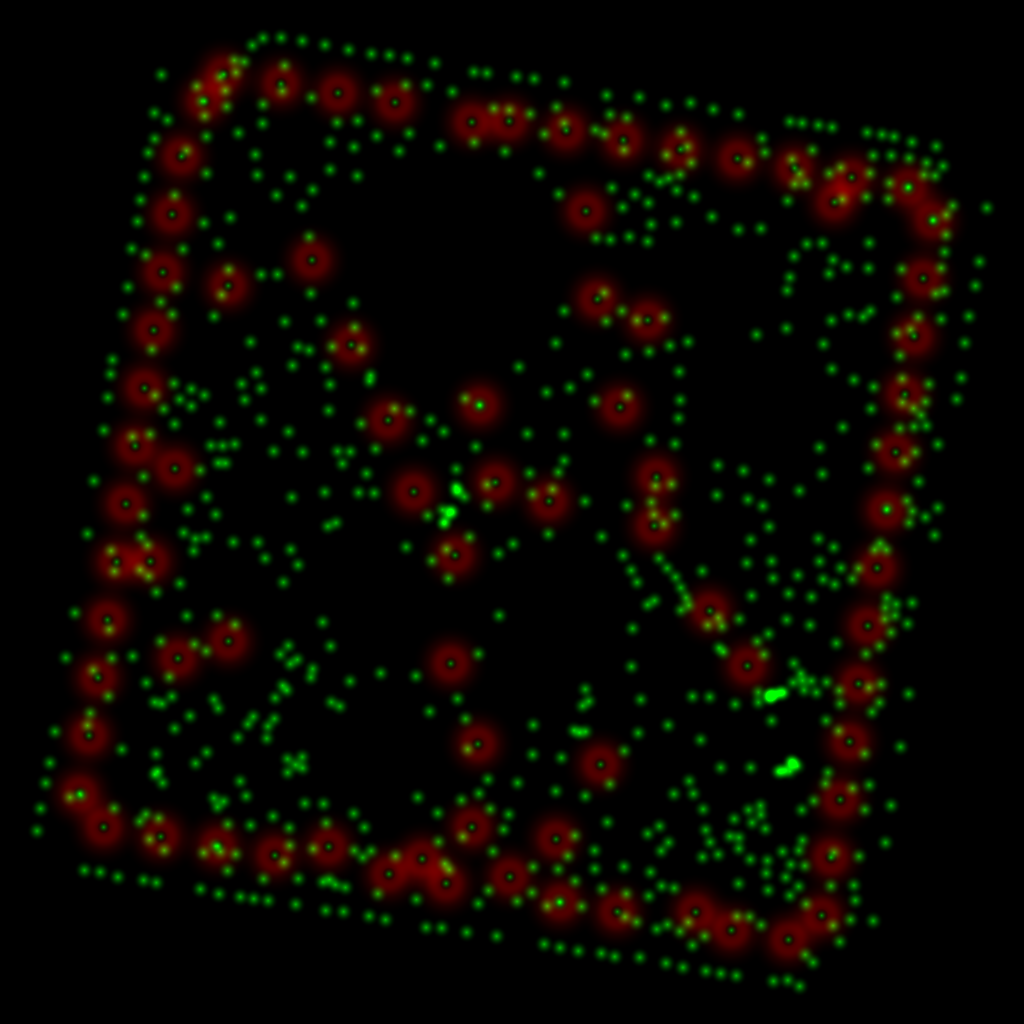
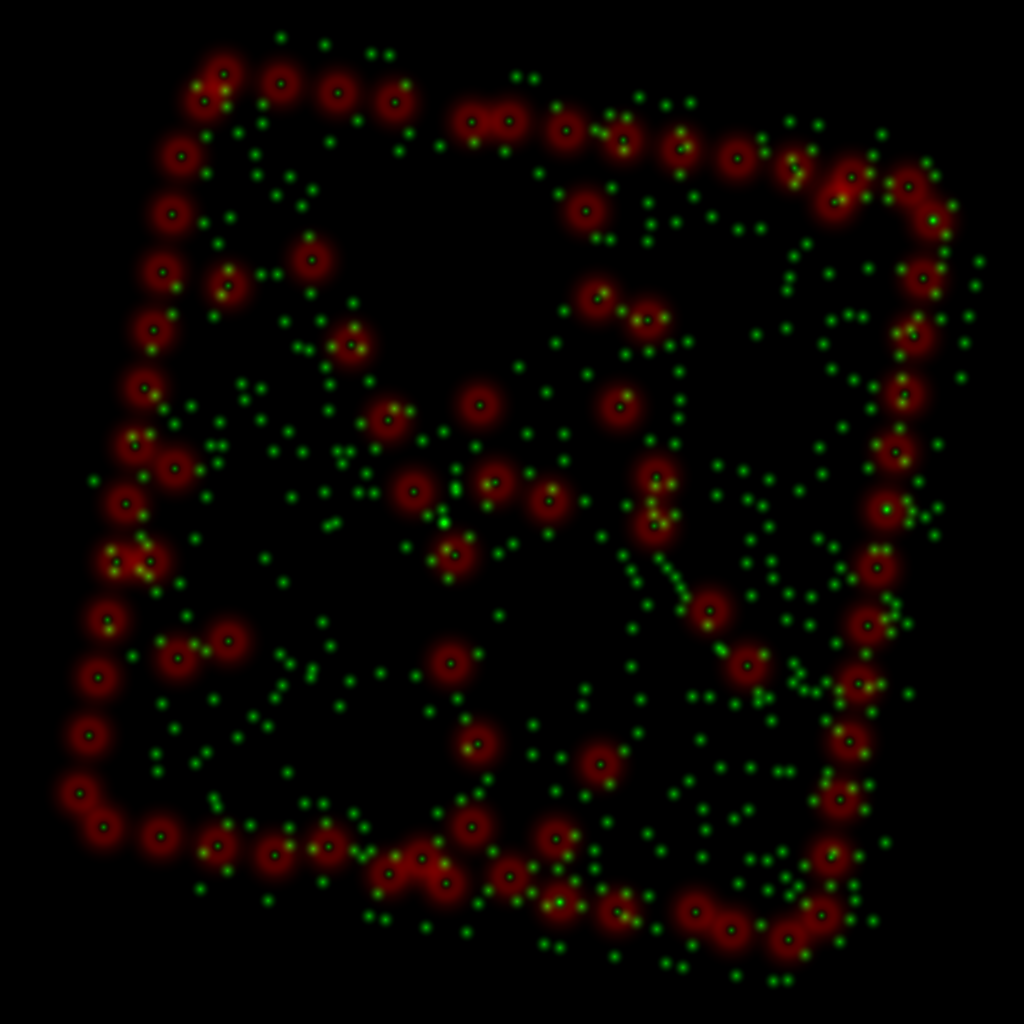
fix(ground): soft shadow only where trees actually spawn — drop orphan circles
The AO bake splatted a contact shadow at every default.json tree position, but 279/745 are heroTier:"cull" (rendered as nothing) → 279 orphan soft circles on bare grass. Filter culled placements out of the shadow splat (466/745 rendered trees). Lamps verified anchoring to the park face (all 80) — seated. Confirmed on Jacob's eye.

diff --git a/cartograph/bake-ground-ao.js b/cartograph/bake-ground-ao.js
@@ -309,8 +309,12 @@ export async function bakeGroundAO({ look = 'default', size = LIGHTMAP_SIZE,
         const rim = 1 - Math.max(0, Math.min(1, (rn - 0.7) / 0.3))
         accR[i] += (ring * 0.55 + penumbra * 0.45) * postShadow * rim
       })
-      // G — contact shadows (trees + lamp bases), summed + clamped at encode
-      for (const t of trees) splat(t.x, t.z, TREE_SHADOW_RADIUS_M, (i, rn) => {
+      // G — contact shadows (trees + lamp bases), summed + clamped at encode.
+      // ONLY for trees that actually render — `heroTier:"cull"` placements draw
+      // nothing (InstancedTrees drops them), so splatting their shadow leaves an
+      // orphan soft circle on bare grass. (2026-06-29 — "extra soft circles".)
+      const shadowTrees = trees.filter(t => t.heroTier !== 'cull')
+      for (const t of shadowTrees) splat(t.x, t.z, TREE_SHADOW_RADIUS_M, (i, rn) => {
         accG[i] += (1 - rn) * (1 - rn) * TREE_SHADOW_STR
       })
       for (const l of lamps) splat(l.x, l.z, LAMP_SHADOW_RADIUS_M, (i, rn) => {
@@ -327,7 +331,7 @@ export async function bakeGroundAO({ look = 'default', size = LIGHTMAP_SIZE,
       fpng.data = Buffer.from(fpx.buffer, fpx.byteOffset, fpx.byteLength)
       writeIfChanged(join(lookDir, 'ground.poolmap.png'), PNG.sync.write(fpng))
       manifest.poolmap = { image: 'ground.poolmap.png', size: FX_SIZE, min: [minX, minZ], span: [pW, pH], scale: POOL_MAX }
-      console.log(`[bake-ao] ground FX map: ${lamps.length} lamps (pool R) + ${trees.length} trees + lamps (shadow G) → ${FX_SIZE}² over ${pW.toFixed(0)}×${pH.toFixed(0)} m`)
+      console.log(`[bake-ao] ground FX map: ${lamps.length} lamps (pool R) + ${shadowTrees.length}/${trees.length} rendered trees + lamps (shadow G) → ${FX_SIZE}² over ${pW.toFixed(0)}×${pH.toFixed(0)} m`)
     } else {
       manifest.poolmap = null
     }
